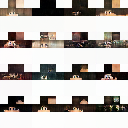
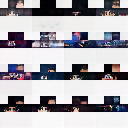
50 epoch results

diff --git a/mc_generator/gen.py b/mc_generator/gen.py
@@ -5,7 +5,7 @@ class TrainingConfig:
     image_size = 32  # the generated image resolution
     train_batch_size = 16
     eval_batch_size = 16  # how many images to sample during evaluation
-    num_epochs = 11
+    num_epochs = 50
     gradient_accumulation_steps = 1
     learning_rate = 1e-4
     lr_warmup_steps = 500
@@ -16,7 +16,7 @@ class TrainingConfig:
 
     push_to_hub = False  # whether to upload the saved model to the HF Hub
     hub_private_repo = False  
-    overwrite_output_dir = True  # overwrite the old model when re-running the notebook
+    overwrite_output_dir = False  # overwrite the old model when re-running the notebook
     seed = 0
 
 config = TrainingConfig()
@@ -48,6 +48,7 @@ dataset.set_transform(transform)
 
 import torch
 
+# dataset = dataset[:100] # REMOVE THIS IF NEED: make mini dataset
 train_dataloader = torch.utils.data.DataLoader(dataset, batch_size=config.train_batch_size, shuffle=True)
 
 from diffusers import UNet2DModel
@@ -186,11 +187,12 @@ def train_loop(config, model, noise_scheduler, optimizer, train_dataloader, lr_s
     global_step = 0
 
     # Now you train the model
+    epoch_losses = []
     for epoch in range(config.num_epochs):
-        print(epoch)
         progress_bar = tqdm(total=len(train_dataloader), disable=not accelerator.is_local_main_process)
         progress_bar.set_description(f"Epoch {epoch}")
-
+        
+        batch_losses = []
         for step, batch in enumerate(train_dataloader):
             clean_images = batch['images']
             # Sample noise to add to the images
@@ -208,6 +210,7 @@ def train_loop(config, model, noise_scheduler, optimizer, train_dataloader, lr_s
                 # Predict the noise residual
                 noise_pred = model(noisy_images, timesteps, return_dict=False)[0]
                 loss = F.mse_loss(noise_pred, noise)
+                batch_losses.append(loss.item())
                 accelerator.backward(loss)
 
                 accelerator.clip_grad_norm_(model.parameters(), 1.0)
@@ -220,6 +223,7 @@ def train_loop(config, model, noise_scheduler, optimizer, train_dataloader, lr_s
             progress_bar.set_postfix(**logs)
             accelerator.log(logs, step=global_step)
             global_step += 1
+        epoch_losses.append(sum(batch_losses) / len(batch_losses))
 
         # After each epoch you optionally sample some demo images with evaluate() and save the model
         if accelerator.is_main_process:
@@ -227,12 +231,14 @@ def train_loop(config, model, noise_scheduler, optimizer, train_dataloader, lr_s
 
             if (epoch + 1) % config.save_image_epochs == 0 or epoch == config.num_epochs - 1:
                 evaluate(config, epoch, pipeline)
+                pass
 
             if (epoch + 1) % config.save_model_epochs == 0 or epoch == config.num_epochs - 1:
                 if config.push_to_hub:
                     repo.push_to_hub(commit_message=f"Epoch {epoch}", blocking=True)
                 else:
-                    pipeline.save_pretrained(config.output_dir) 
+                    pipeline.save_pretrained(config.output_dir)
+    print(epoch_losses)
 
 
 
